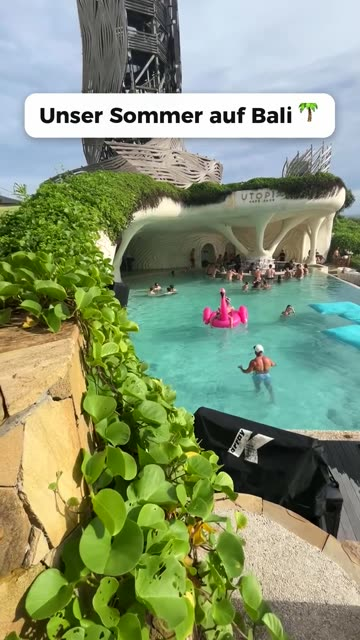
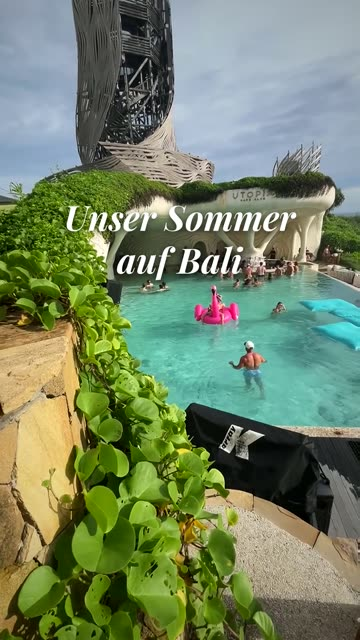
Stabilisierung ohne Zoom (gespiegelter Rand, ruhigste Stelle, je Einstellung), Premium-Look im Musik-Schnitt, Untertitel-Lektorat gebremst; Bali-Video neu

diff --git a/worker/musikschnitt.py b/worker/musikschnitt.py
@@ -22,6 +22,7 @@ ap.add_argument("--words", default="")
 ap.add_argument("inputs", nargs="+")
 A = ap.parse_args()
 A.out = os.path.abspath(A.out)
+A.out = os.path.abspath(A.out)
 os.makedirs(A.out, exist_ok=True)
 MASCHINE = os.environ.get("VELOX_MASCHINE", os.path.join(HERE, "..", "..", "schnitt-maschine"))
 MUSIC_DIR = os.environ.get("VELOX_MUSIK", os.path.join(MASCHINE, "musik"))
@@ -258,6 +259,30 @@ def nbeats(target):
 
 
 PRIVAT = (plan or {}).get("art") == "privat"
+FAHRT = [False]  # letzte Stelle ist eine Kamerafahrt/ein schneller Schwenk (Roller, Auto) → nur fein ausgleichen
+
+
+def calmest(path, t0, t1, need, default):
+    """Regel 94: aus jeder Stelle den RUHIGSTEN Teil nehmen (wenigstes Wackeln), nicht einfach die Mitte."""
+    R, SW, SH = 15, 160, 284
+    raw = subprocess.run(["ffmpeg", "-v", "error", "-ss", f"{t0:.3f}", "-t", f"{t1 - t0:.3f}", "-i", path, "-vf",
+                          f"fps={R},scale={SW}:{SH},format=gray", "-f", "rawvideo", "-"], capture_output=True, stdin=subprocess.DEVNULL).stdout
+    n = len(raw) // (SW * SH)
+    if n < 6:
+        return default
+    fr = np.frombuffer(raw[: n * SW * SH], np.uint8).reshape(n, SH, SW).astype(np.float32)
+    win = cv2.createHanningWindow((SW, SH), cv2.CV_32F)
+    d = np.array([cv2.phaseCorrelate(fr[i], fr[i + 1], win)[0] for i in range(n - 1)])
+    FAHRT[0] = float(np.median(np.hypot(d[:, 0], d[:, 1]))) > 1.2  # > ~8 px je Bild bei 1080 Breite: Bild wandert ständig
+    jit = np.hypot(*(np.diff(d, axis=0)).T)  # Ruck = Änderung der Bewegung (gleichmäßiger Schwenk zählt nicht)
+    w = max(2, int(need * R))
+    if len(jit) <= w or t1 - t0 - need < 0.25:
+        return default
+    cs = np.concatenate([[0], np.cumsum(jit)])
+    cost = cs[w:] - cs[:-w]
+    return t0 + min(float(np.argmin(cost)) / R, max(0.0, t1 - t0 - need))
+
+
 plan_b = []
 for k, o in enumerate(order):
     if PRIVAT:  # Urlaub/Vlog: Bilder brauchen Zeit zum Wirken (Regel 90) – ~1,2 s, Held/Ende ~2,4 s
@@ -286,7 +311,10 @@ for k, o in enumerate(order):
     speed = 1.0 if avail >= d else max(avail / d, 0.6)  # zu kurz → leichte Zeitlupe (sieht bei Food gut aus)
     src_len = min(avail, d * speed)
     a = s["a"] + max(0.0, (avail - src_len) / 2)
-    z0, z1 = (1.0, 1.07) if k % 2 == 0 else (1.07, 1.0)  # sanfter Push-in / Pull-out im Wechsel
+    FAHRT[0] = False
+    if not s.get("foto"):
+        a = calmest(s["c"]["file"], s["a"], s["b"], src_len, a)
+    z0, z1 = (1.0, 1.04) if k % 2 == 0 else (1.04, 1.0)  # sanfter Push-in / Pull-out im Wechsel
     zoom = f"{z0}+({z1}-{z0})*t/{d:.3f}"
     vf = (f"setpts=PTS/{speed:.4f},fps={FPS},scale={TW}:{TH}:force_original_aspect_ratio=increase,crop={TW}:{TH},"
           f"scale=w='trunc({TW}*({zoom})/2)*2':h='trunc({TH}*({zoom})/2)*2':eval=frame,crop={TW}:{TH},setsar=1,format=yuv420p")
@@ -302,7 +330,20 @@ for k, o in enumerate(order):
              "-preset", "veryfast", "-crf", "17", "-r", str(FPS), "-c:a", "aac", "-b:a", "192k", out])
         parts_v.append(out)
         continue
-    cmd = ["ffmpeg", "-v", "error", "-y", "-ss", f"{a:.3f}", "-t", f"{src_len + 0.3:.3f}", "-i", s["c"]["file"]]
+    # Regel 92: jede Einstellung wird stabilisiert (wie Gimbal): 1. Durchgang misst das Wackeln, 2. gleicht es aus
+    trf = f"stab_{k:02d}.trf"
+    # vorher auf Arbeitsgröße (4K/60 wäre minutenlang): Hochformat 1080 breit, Querformat 1920 hoch; 30 Bilder/s
+    PRE = f"fps={FPS},scale=w='if(lt(iw,ih),{TW},-2)':h='if(lt(iw,ih),-2,{TH})'"
+    seek = ["-ss", f"{a:.3f}", "-t", f"{src_len + 0.3:.3f}", "-i", s["c"]["file"]]
+    r = subprocess.run(["ffmpeg", "-v", "error", "-y", *seek, "-vf", f"{PRE},vidstabdetect=shakiness=8:accuracy=9:stepsize=6:result={trf}",
+                        "-an", "-f", "null", "-"], capture_output=True, text=True, stdin=subprocess.DEVNULL, cwd=A.out, timeout=600)
+    if r.returncode == 0 and os.path.exists(os.path.join(A.out, trf)):
+        # Regel 93: nicht zoomen – Bild vorher rundum 160 px gespiegelt erweitern, ausgleichen (höchstens 120 px), Rand wieder ab
+        vf = (f"{PRE},pad=iw+320:ih+320:160:160,fillborders=160:160:160:160:mode=mirror,"
+              f"vidstabtransform=input={trf}:smoothing=30:optzoom=0:zoom=0:maxshift={24 if FAHRT[0] else 120}:maxangle=0.04:interpol=bicubic:crop=black,"
+              f"crop=iw-320:ih-320,unsharp=5:5:0.5:3:3:0.0," + vf)
+        STATS["stabilisiert"] = STATS.get("stabilisiert", 0) + 1
+    cmd = ["ffmpeg", "-v", "error", "-y", *seek]
     if s["c"]["audio"]:
         af = f"atempo={max(speed, 0.5):.4f},apad,atrim=0:{d:.4f},aresample=48000"
         cmd += ["-vf", vf, "-af", af]
@@ -310,7 +351,12 @@ for k, o in enumerate(order):
         cmd += ["-f", "lavfi", "-i", "anullsrc=r=48000:cl=stereo", "-vf", vf, "-map", "0:v", "-map", "1:a", "-shortest"]
     cmd += ["-frames:v", str(nf), "-t", f"{d:.4f}", "-ac", "2", "-color_range", "tv", "-c:v", "libx264", "-preset", "veryfast", "-crf", "17", "-r", str(FPS),
             "-c:a", "aac", "-b:a", "192k", out]
-    run(cmd)
+    try:
+        subprocess.run(cmd, capture_output=True, text=True, stdin=subprocess.DEVNULL, cwd=A.out, timeout=900, check=True)
+    except Exception:  # noqa: BLE001 – notfalls ohne Stabilisierung
+        run([x.replace(vf, vf.split("unsharp=5:5:0.5:3:3:0.0,")[-1]) if x == vf else x for x in cmd])
+    if os.path.exists(os.path.join(A.out, trf)):
+        os.remove(os.path.join(A.out, trf))
     parts_v.append(out)
     print(f"PROGRESS {35 + int(45 * (k + 1) / len(order))}", flush=True)
 lst = os.path.join(A.out, "m_liste.txt")
@@ -324,11 +370,43 @@ for f in parts_v + [lst]:
 stage("Legt Musik, Titel und Logo an …", 85)
 final = os.path.join(A.out, "clip-1.mp4")
 inputs = ["-i", body]
-fc = ["[0:v]eq=contrast=1.04:saturation=1.10[v0]" if A.style != "clean" else "[0:v]null[v0]"]
+PREMIUM = A.style == "premium"
+grade = {"clean": "null", "viral": "eq=contrast=1.04:saturation=1.10",
+         # Premium: Kino-Look – weiche Kontraste, satte Farben, leichte Vignette, weich ein- und ausgeblendet
+         "premium": f"eq=contrast=1.07:saturation=1.16:gamma=0.98,vignette=PI/8,fade=t=in:st=0:d=0.35,fade=t=out:st={max(0, total - 0.6):.3f}:d=0.6"}[A.style]
+fc = [f"[0:v]{grade}[v0]"]
 vin, ni = "v0", 1
-card = hook_card(title, os.path.join(A.out, "titel.png")) if title else None
+def serif_card(text, path):
+    """Premium-Titel: große, elegante Serifenschrift ohne Kasten (wie ein Filmtitel), weicher Schatten."""
+    from PIL import Image, ImageDraw, ImageFilter, ImageFont
+    text = re.sub(r"[^\w\s\-–&'’.,!?äöüÄÖÜß]", "", text).strip()
+    if not text:
+        return None
+    font = ImageFont.truetype(os.path.join(_ns["FONTS"], "PlayfairDisplay-italic-700.ttf"), 104)
+    words, lines = text.split(), []
+    for w in words:
+        if lines and font.getlength(lines[-1] + " " + w) <= 900:
+            lines[-1] += " " + w
+        else:
+            lines.append(w)
+    if len(lines) == 2:  # zwei möglichst gleich lange Zeilen („Unser Sommer / auf Bali“ statt „… auf / Bali“)
+        k = min(range(1, len(words)), key=lambda i: max(font.getlength(" ".join(words[:i])), font.getlength(" ".join(words[i:]))))
+        lines = [" ".join(words[:k]), " ".join(words[k:])]
+    lh, wd = 128, int(max(font.getlength(l) for l in lines)) + 80
+    im = Image.new("RGBA", (wd, lh * len(lines) + 60), (0, 0, 0, 0))
+    sh = Image.new("RGBA", im.size, (0, 0, 0, 0))
+    for layer, col in ((sh, (0, 0, 0, 170)), (im, (255, 255, 255, 255))):
+        d = ImageDraw.Draw(layer)
+        for i, l in enumerate(lines):
+            d.text(((wd - font.getlength(l)) / 2, 20 + i * lh + (4 if layer is sh else 0)), l, font=font, fill=col)
+    out = Image.alpha_composite(sh.filter(ImageFilter.GaussianBlur(9)), im)
+    out.save(path)
+    return path
+
+
+card = (serif_card(title, os.path.join(A.out, "titel.png")) if PREMIUM else hook_card(title, os.path.join(A.out, "titel.png"))) if title else None
 logo = A.logo if A.logo and os.path.exists(A.logo) else None
-hy = HOOK_Y + (LOGO_PX + 20 if logo else 0)
+hy = (560 if PREMIUM else HOOK_Y) + (LOGO_PX + 20 if logo else 0)
 if card:
     inputs += ["-loop", "1", "-framerate", str(FPS), "-i", card]  # endlos + shortest: ein endender Bild-Eingang ließ ffmpeg hängen
     fc.append(f"[{ni}:v]format=rgba,fade=t=in:st=0:d=0.3:alpha=1,fade=t=out:st=2.9:d=0.4:alpha=1[hc]")

diff --git a/worker/pipeline.py b/worker/pipeline.py
@@ -654,6 +654,7 @@ def gemini_proofread(words):
     → Korrektur übernehmen). Unverständlicher Kauderwelsch bekommt KEINEN Untertitel (lieber keiner als ein falscher)."""
     import difflib
     fixed = unclear = 0
+    BRAND_N = {norm(x) for x in re.split(r"[,;\s]+", BRAND or "") if norm(x)}
     for c0 in range(0, len(words), 150):
         chunk = words[c0:c0 + 150]
         res = gemini(
@@ -661,7 +662,7 @@ def gemini_proofread(words):
             "automatisches Transkript (evtl. kleingeschrieben, ohne Satzzeichen, teils verhört). Schreibe es als sauberen "
             "Untertiteltext: korrekte Rechtschreibung, Groß-/Kleinschreibung, Satzzeichen; offensichtlich verhörte Wörter und "
             "verstümmelte Namen aus dem Zusammenhang korrigieren (z. B. „Schmarm“ → „Schmarrn“ an einem Kaiserschmarrn-Stand). "
-            "Umgangssprache/Dialekt bleibt. Wörter NICHT umstellen, nichts weglassen, nichts hinzufügen. Zusätzlich: Liste der "
+            "Umgangssprache/Dialekt bleibt. Wörter NICHT umstellen, nichts weglassen, nichts hinzufügen, NICHTS umformulieren oder durch ein anderes Wort ersetzen – es muss genau das dastehen, was gesagt wurde. Zusätzlich: Liste der "
             "Wortfolgen aus dem ORIGINAL, die sinnloser Kauderwelsch sind und sich nicht sicher korrigieren lassen." +
             (f" Diese Namen/Marken kommen im Video vor – verhörte Varianten genau so schreiben: {BRAND}." if BRAND else ""),
             " ".join(w["t"] for w in chunk),
@@ -677,6 +678,11 @@ def gemini_proofread(words):
                 for d in range(i2 - i1):
                     w, t = chunk[i1 + d], new[j1 + d]
                     if t != w["t"]:
+                        # Regel 91: Der Untertitel zeigt, was GESAGT wurde. Ein anderes Wort nur, wenn es fast gleich klingt
+                        # (verhört: „Bürger“ → „Burger“) oder ein Kunden-Name ist – nie „schöner formulieren“.
+                        na, nb = norm(w["t"]), norm(t)
+                        if na != nb and nb not in BRAND_N and difflib.SequenceMatcher(a=na, b=nb).ratio() < 0.4:
+                            continue
                         w["t"] = t
                         fixed += 1
             elif tag == "replace" and i2 - i1 == 2 and j2 - j1 == 1:  # zusammengeschrieben („weiter empfehlen“ → „weiterempfehlen“)
@@ -1077,8 +1083,8 @@ def plan_crops(ranges, zs=1.0, shift=None, pad=None):
 # Handwackeln, leichtes Kippen und der Sprung des Hintergrunds an Jump-Cuts (Kamera ist in der weggeschnittenen Zeit
 # verrutscht) verschwinden. Alles subpixel-genau (kein Stufen-Ruckeln wie bei ganzzahligem Zuschneiden).
 STAB_RATE = min(30.0, FPS)
-STAB_SIGMA = 1.0 if LOUD else 1.4  # Glättung (s): Clean fast wie vom Stativ, Viral/Premium etwas lebendiger
-STAB_ZOOM_MAX = 1.10               # höchstens 10 % Zusatz-Zoom für den Ausgleichsrand (CapCut „empfohlen“ ≈ 1,1)
+STAB_SIGMA = 2.6                   # Glättung (s): wie vom Stativ/Gimbal – Nutzer: „da darf nichts wackeln“ (Regel 92)
+STAB_ZOOM_MAX = 1.20               # bestimmt nur noch, wie weit ausgeglichen wird (± ~7 % des Bildes) – gezoomt wird NICHT (Regel 93)
 TRACK_W = 320
 
 
@@ -1093,9 +1099,7 @@ def _bg_mask(g):
     for fx, fy, fw, fh in faces:
         fx, fy, fw, fh = fx / 2, fy / 2, fw / 2, fh / 2
         cv2.rectangle(mask, (int(fx - 1.8 * fw), int(fy - 0.9 * fh)), (int(fx + 2.8 * fw), sh), 0, -1)
-    if not len(faces):
-        cv2.rectangle(mask, (int(sw * 0.22), int(sh * 0.12)), (int(sw * 0.78), sh), 0, -1)
-    return mask
+    return mask  # kein Gesicht (B-Roll, Nahaufnahme): ganzes Bild verfolgen – RANSAC ignoriert bewegte Hände/Dinge
 
 
 def _motion(a, b, mask, far=False):
@@ -1121,6 +1125,9 @@ def _motion(a, b, mask, far=False):
     return dx * W / sw, dy * W / sw, ang
 
 
+CUTS_FOUND = []  # Zeiten harter Schnitte der zuletzt verfolgten Strecke
+
+
 def _track(t0, t1):
     """Kamerabahn zwischen t0 und t1 (STAB_RATE Bilder/s): kumuliert (x, y, Winkel) – Hintergrund, Personen ausgeblendet."""
     SW = TRACK_W
@@ -1129,6 +1136,7 @@ def _track(t0, t1):
                              f"fps={STAB_RATE:.3f},scale={SW}:{SH},format=gray", "-f", "rawvideo", "-"], stdout=subprocess.PIPE)
     prev, mask, path, n = None, None, [], 0
     cur = np.zeros(3)
+    CUTS_FOUND.clear()
     while True:
         buf = proc.stdout.read(SW * SH)
         if len(buf) < SW * SH:
@@ -1141,6 +1149,8 @@ def _track(t0, t1):
             d = _motion(prev, g, mask)
             if d is not None:
                 cur = cur + d
+            elif float(np.abs(g.astype(np.int16) - prev).mean()) > 22:  # harter Schnitt im Material (z. B. Zwischenschnitt)
+                CUTS_FOUND.append(t0 + (n - 1) / STAB_RATE)
         path.append(cur.copy())
         prev = g
     proc.wait()
@@ -1221,6 +1231,7 @@ def plan_stab(ranges):
     for b in blocks:
         b["t0"] = max(0.0, ranges[b["ks"][0]][0] - 0.1)
         b["path"] = _track(b["t0"], min(DUR, ranges[b["ks"][-1]][1] + 0.4))
+        b["cuts"] = sorted(CUTS_FOUND)
     nf = seg_frames(ranges)
     seq, scene, off, breaks = [], [], np.zeros(3), 0
     P = {}
@@ -1254,7 +1265,14 @@ def plan_stab(ranges):
         for k in b["ks"]:
             s = ranges[k][0]
             for i in range(nf[k]):
-                seq.append(pos(k, s + i * SPEED[0] / OF) + off)
+                tt = s + i * SPEED[0] / OF
+                # Regel 92: jede Einstellung für sich beruhigen – sonst zieht die Glättung das Wackeln der einen
+                # Einstellung über den Schnitt in die nächste („an den Übergängen wackelt es“)
+                while b["cuts"] and b["cuts"][0] <= tt + 0.5 / STAB_RATE:
+                    b["cuts"].pop(0)
+                    sid += 1
+                    breaks += 1
+                seq.append(pos(k, tt) + off)
                 scene.append(sid)
             b.setdefault("off", {})[k] = off.copy()
     Q = np.array(seq)
@@ -1687,7 +1705,10 @@ def render_cut(idx, ranges):
     stab = plan_stab(ranges)
     shift, pad = (stab["mean"], stab["lim"]) if stab else (None, None)
     crops = plan_crops(ranges, 1.0, shift, pad)
-    zs = stab_zoom(stab, crops) if stab else 1.0
+    # Regel 93 (Nutzer 05.10.: „perfekt stabil, aber NICHT reinzoomen“): kein Zusatz-Zoom mehr. Der Ausschnitt darf beim
+    # Ausgleichen über den Bildrand hinaus – der schmale fehlende Streifen wird gespiegelt aufgefüllt (fällt am Rand nicht auf).
+    zs = 1.0
+    STATS["stab_zoom"] = 1.0
     if zs > 1.0005:
         crops = plan_crops(ranges, zs, shift, pad)
     xd = transitions(ranges, crops)
@@ -1720,14 +1741,8 @@ def render_cut(idx, ranges):
                 cx, cy = cx + dx - a * (cy - H / 2), cy + dy + a * (cx - W / 2)  # Drehung um die Bildmitte gemessen → Hebel
             sa, ca = abs(np.sin(a)), np.cos(a)
             ex, ey = (w * ca + h * sa) / 2, (w * sa + h * ca) / 2
-            for _ in range(6):  # gedrehtes Fenster passt nicht → Drehung zurücknehmen
-                if ex <= W / 2 and ey <= H / 2:
-                    break
-                a *= 0.6
-                sa, ca = abs(np.sin(a)), np.cos(a)
-                ex, ey = (w * ca + h * sa) / 2, (w * sa + h * ca) / 2
-            ncx, ncy = min(max(cx, ex), W - ex), min(max(cy, ey), H - ey)
-            clamped += abs(ncx - cx) > 0.5 or abs(ncy - cy) > 0.5
+            ncx, ncy = cx, cy  # nicht am Bildrand festhalten (das wäre wieder Wackeln) – der Rand wird gespiegelt
+            clamped += cx < ex or cx > W - ex or cy < ey or cy > H - ey
             fr.append((ncx, ncy, w, a, ex, ey))
         zc = min(ZOOM_MAX, zc + ZOOM_RATE * olen(s, e))
         off += olen(s, e)
@@ -1784,7 +1799,7 @@ def render_cut(idx, ranges):
                 # Quelle → Ausgabe: um −a drehen, skalieren, Fenster-Mitte auf Bildmitte
                 ox, oy = rx - cx, ry - cy
                 M = np.array([[co, si, co * ox + si * oy + 540.0], [-si, co, -si * ox + co * oy + 960.0]])
-                out = cv2.warpAffine(src, M, (1080, 1920), flags=cv2.INTER_CUBIC, borderMode=cv2.BORDER_REPLICATE)
+                out = cv2.warpAffine(src, M, (1080, 1920), flags=cv2.INTER_CUBIC, borderMode=cv2.BORDER_REFLECT_101)
                 if i >= nf[k]:
                     new_tail.append(out)
                     continue

diff --git a/worker/SCHNITTREGELN.md b/worker/SCHNITTREGELN.md
@@ -311,3 +311,9 @@ Protokoll aller Schnitte: `schnitt-maschine/logs/jobs.jsonl` (neben dem Ordner `
 | 29.09.2026 | Runde 1 – Rückmeldung Inhaber | Schnitte wackeln/springen sichtbar, Kamera wackelt, bei leisen Sprechern fehlen Untertitel, teils andere Sprache, Emojis unscharf/zu groß/über der Schrift, Titel-Kasten oben „viereckig“ und langweilig | Regeln 31–37 |
 | 29.09.2026 | Clean-Wunsch + KI-Abnahme Runde 2 | Clean soll auch eine ordentliche Caption oben haben; Abnahme fand Geisterbilder bei Überblendungen, falsche Namen, 12 s stummes Kauen | Regeln 33 (angepasst), 38–40 |
 | 28.09.2026 | dto. | Test: „Ähm“ nach „Stand jetzt“ blieb hörbar, gedehntes „aaaber“/„uuund“ | Regeln 9, 10 – Ergebnis: 51,4 → 44,8 s, keine Füllwörter, alle Wörter da |
+
+90. **Urlaub/Privat braucht Ruhe.** Im Musik-Schnitt stehen Bilder bei Privat-Videos ~1,2 s (Held/Ende ~2,4 s), Ziel 20–30 s; Videos tragen das Video, Fotos nur dazwischen. Premium-Stil: Kino-Look (weiche Vignette, Ein-/Ausblenden) und Serifen-Titel ohne Kasten.
+91. **Der Untertitel zeigt, was gesagt wurde.** Das KI-Lektorat darf Rechtschreibung, Großschreibung und Satzzeichen ändern; ein anderes Wort nur, wenn es fast gleich klingt (verhört) oder ein Kunden-Name ist. Nie umformulieren. (Nutzer 05.10.: „im Untertitel steht etwas anderes, als er gesagt hat“.)
+92. **Nichts wackelt.** (Nutzer 05.10.: „da darf nichts ruckeln, nichts wackeln“.) Sprech-Videos: Glättung 2,6 s, bis 20 % Ausgleichs-Zoom, jede Einstellung für sich beruhigt (harte Schnitte im Material werden erkannt – die Glättung läuft nicht über Übergänge), ohne Gesicht wird das ganze Bild verfolgt. Musik-Schnitt: jede Einstellung einzeln stabilisiert (vidstab, auf Arbeitsgröße 1080 breit/30 fps).
+93. **Stabil, aber nicht reingezoomt.** (Nutzer 05.10.) Kein Zusatz-Zoom für die Stabilisierung. Der Ausschnitt gleicht bis ± ~7 % aus und darf dabei über den Bildrand – der fehlende Streifen wird gespiegelt (Sprech-Videos) bzw. aus den Nachbarbildern gefüllt (Musik-Schnitt). Der langsame Stil-Zoom im Musik-Schnitt ist auf 4 % reduziert.
+94. **Der ruhigste Teil gewinnt.** Im Musik-Schnitt wird aus jeder Stelle der Abschnitt mit dem wenigsten Ruckeln genommen (Bewegungsmessung), nicht einfach die Mitte. Ausgleich bis 120 px mit gespiegeltem Rand, weiterhin ohne Zoom.
